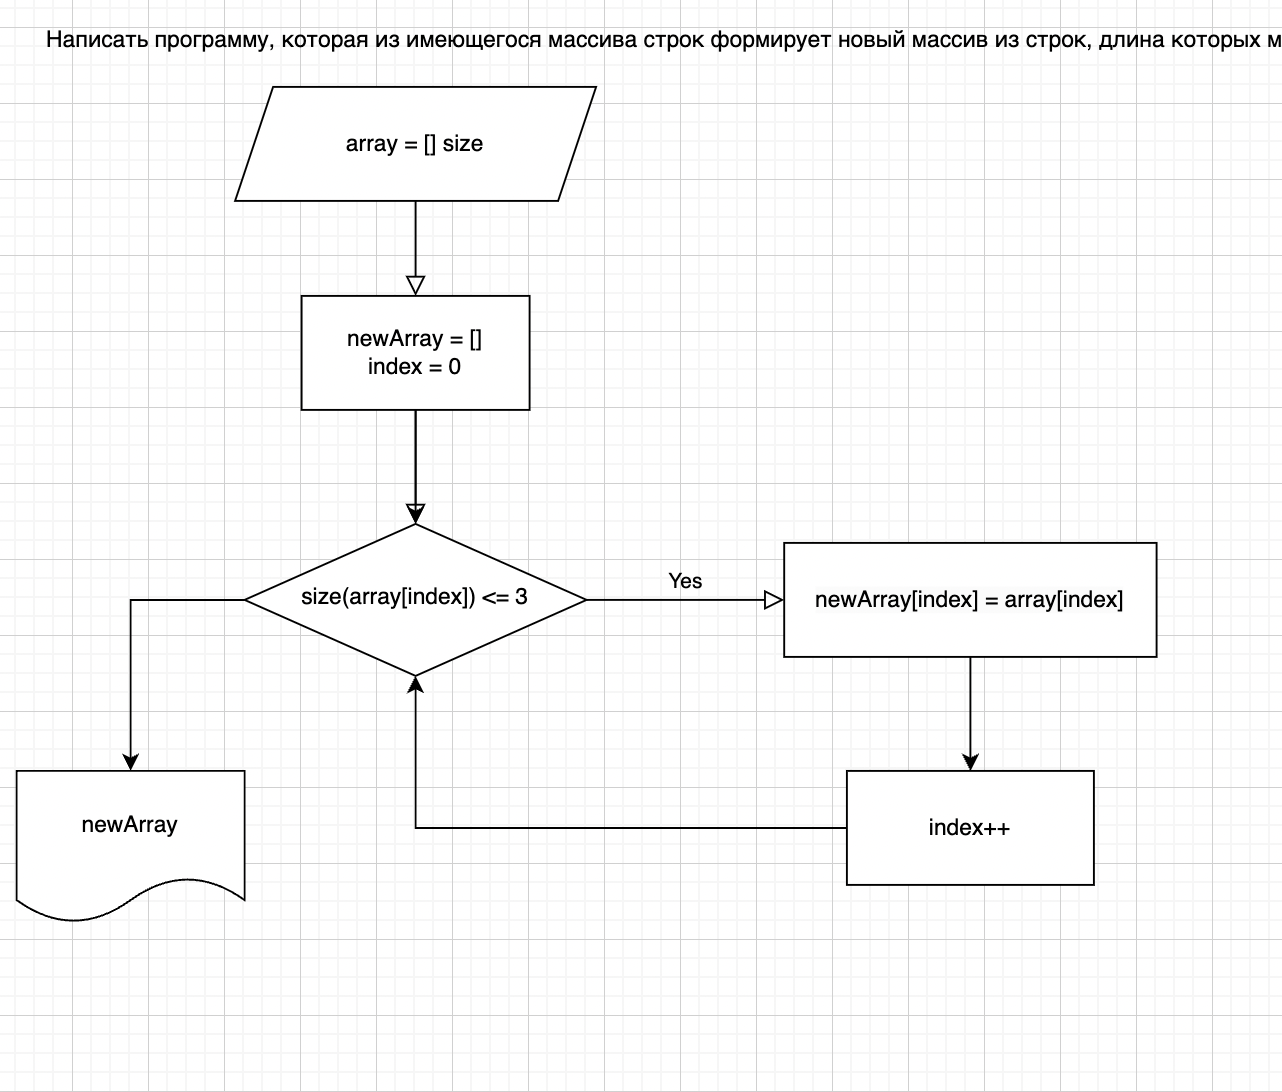
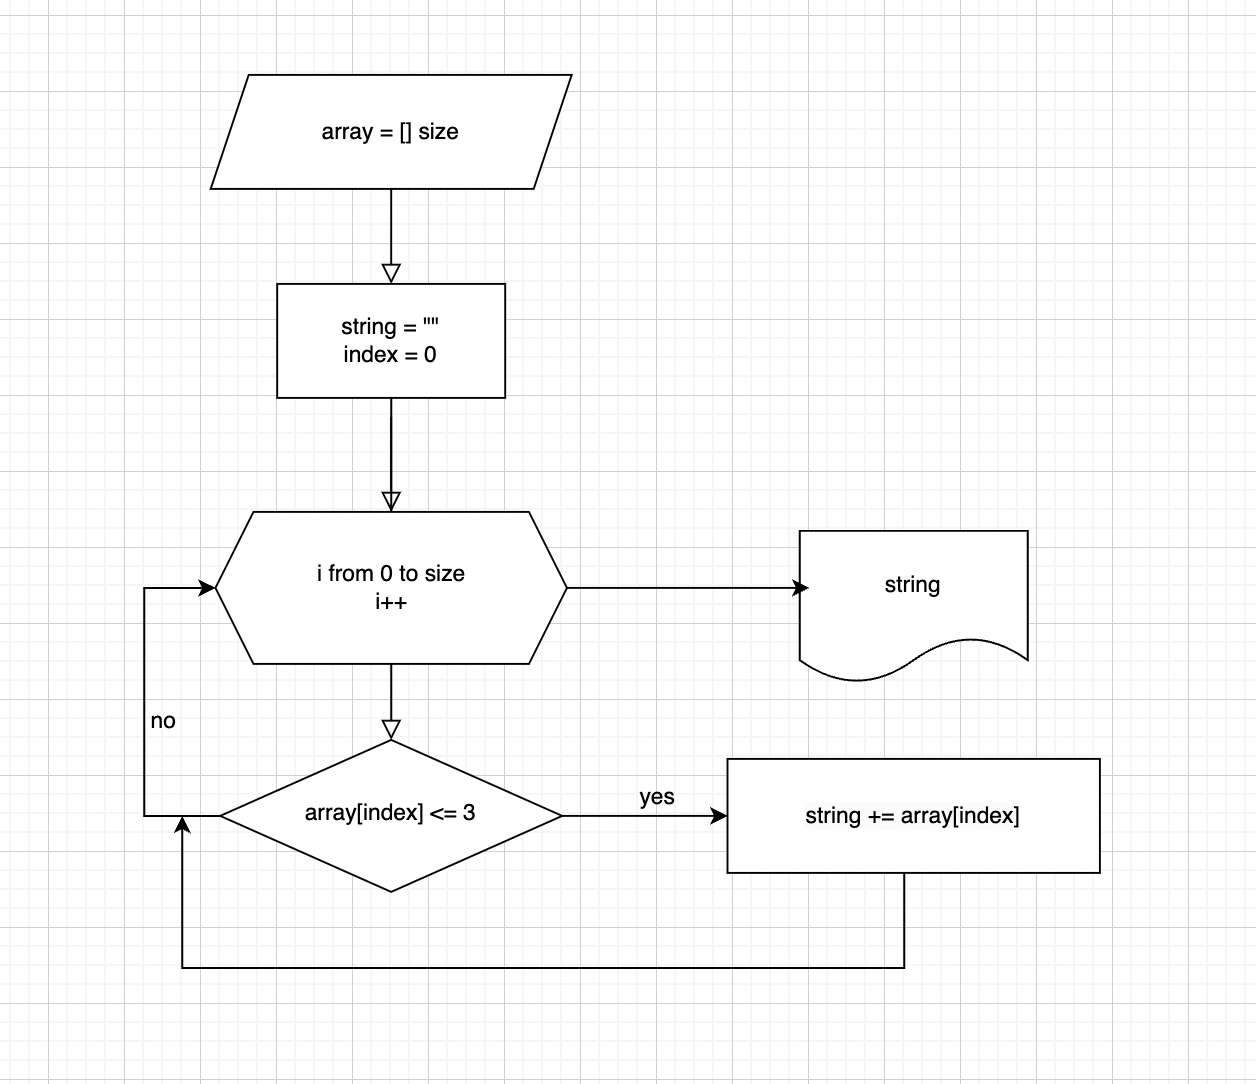
Changed the picture

diff --git a/README.md b/README.md
@@ -2,4 +2,6 @@
 
 В моём алгоритме перебирается каждый элемент заданного массива, при этом проверяется длина элементов. Элементы с длиной <= 3 записываются в новую строку. Затем строка преобразовывается в массив и мы получаем нужный массив. 
 
+Ниже преведена блок-схема алгоритма метода для поиска нужного элемента в массиве и занесения его в строку.
+
 ![Это блоксхема](Block.png)
